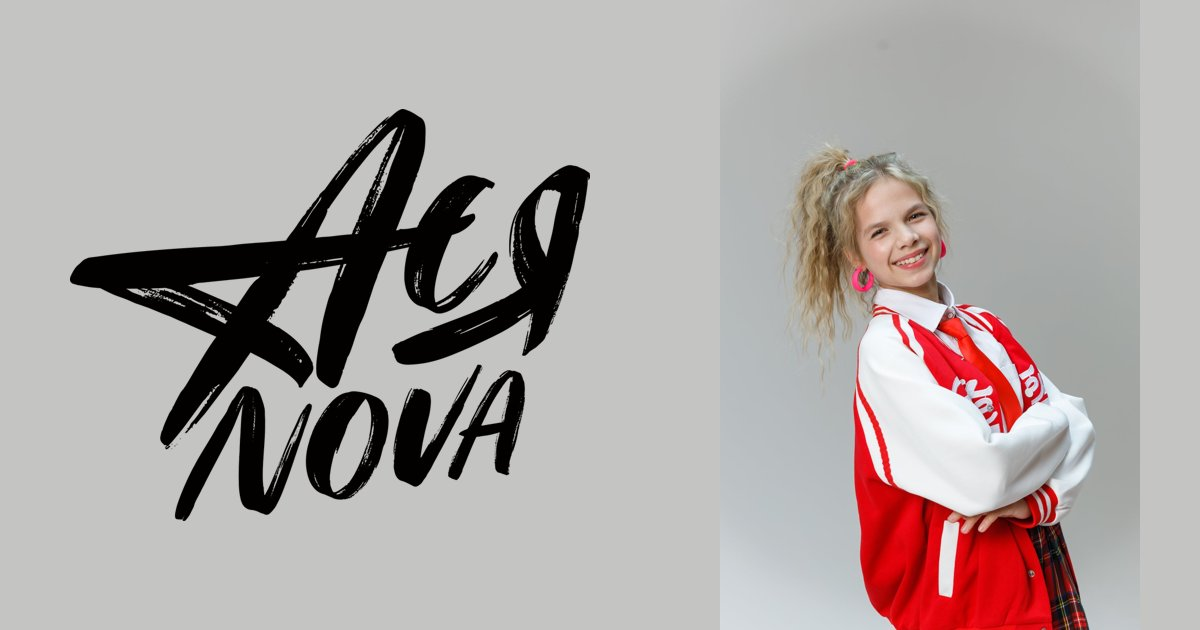
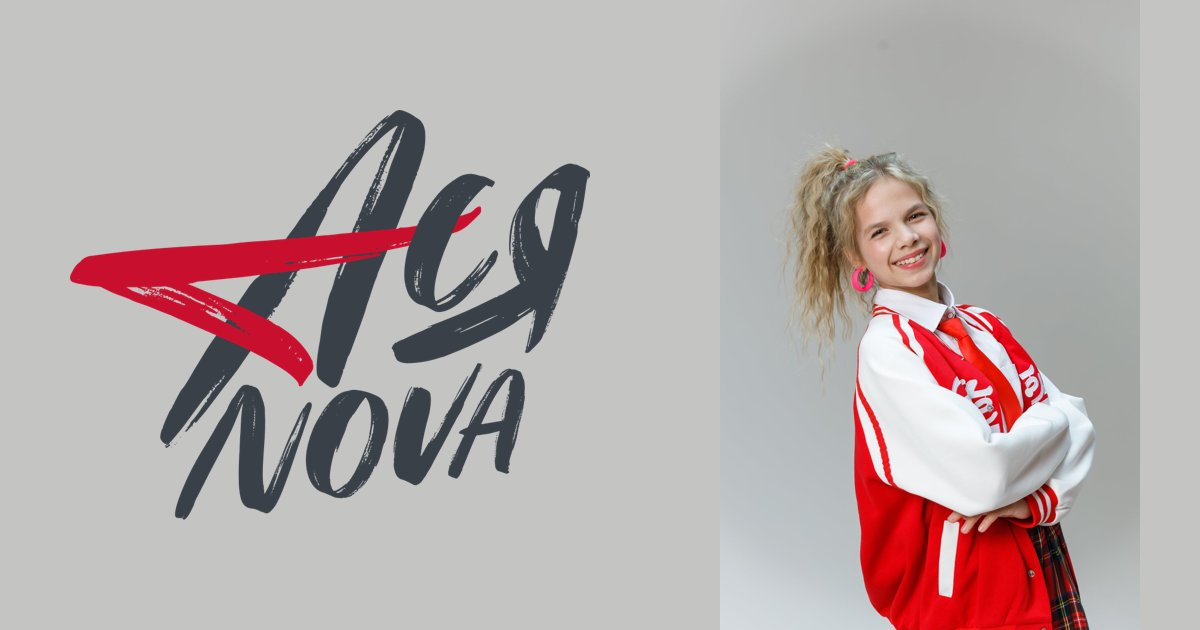
Логотип: графит с красным мазком в цвет бомбера и кнопок; новая иконка вкладки и превью ссылки
Claude-Session: https://claude.ai/code/session_01KCDvgTRNFyWnJZYckEhSR3

Changed region(s): [[0.0617, 0.181, 0.4933, 0.8444]]

diff --git a/index.html b/index.html
@@ -23,7 +23,7 @@
     <div class="link-group"><span class="link-label">Соцсети</span><a class="pl" href="https://vk.com/asya_nova_sing" target="_blank" rel="noopener" aria-label="ВКонтакте" title="ВКонтакте" style="background:#0077FF;color:#FFFFFF">VK</a><a class="pl" href="https://t.me/asya_nova_sing" target="_blank" rel="noopener" aria-label="Telegram" title="Telegram" style="background:#2AABEE;color:#121212">TG</a><a class="pl" href="https://www.tiktok.com/@asya_nova_song" target="_blank" rel="noopener" aria-label="TikTok" title="TikTok" style="background:#FFFFFF;color:#121212">TT</a><a class="pl small" href="https://max.ru/channel_asya_nova" target="_blank" rel="noopener" aria-label="MAX — «АСЯ NOVA на MAXимум!»" title="MAX — «АСЯ NOVA на MAXимум!»" style="background:#7A3CFF;color:#FFFFFF">MAX</a></div>
   </div></div>
   <div class="wrap hdr-row">
-    <a class="logo" href="/" aria-label="АСЯ NOVA — на главную"><img class="logo-b" src="/assets/img/logo_black.png" alt="АСЯ NOVA" width="66" height="52"><img class="logo-w" src="/assets/img/logo_white.png" alt="АСЯ NOVA" width="66" height="52"></a>
+    <a class="logo" href="/" aria-label="АСЯ NOVA — на главную"><img class="logo-b" src="/assets/img/logo_red_dark.png" alt="АСЯ NOVA" width="66" height="52"><img class="logo-w" src="/assets/img/logo_red_light.png" alt="АСЯ NOVA" width="66" height="52"></a>
     <nav class="site-nav no-scrollbar" aria-label="Главное меню"><a href="/#music">Музыка</a><a href="/#afisha">Афиша</a><a href="/#video">Видео</a><a href="/komiks/">Комиксы</a><a href="/merch/">Мерч</a><a href="/#about">Об Асе</a><a href="/#collab">Сотрудничество</a></nav>
     <div class="hdr-actions">
       <button class="theme-btn" type="button" data-theme-toggle aria-label="Сменить тему: светлая или тёмная" title="Светлая / тёмная тема">
@@ -38,7 +38,7 @@
 <section class="hero"><div class="wrap hero-row">
   <div class="hero-txt">
     <div style="display:inline-flex;align-self:flex-start;align-items:center;gap:10px;background:#121212;color:#fff;font-weight:700;font-size:13px;letter-spacing:.12em;text-transform:uppercase;padding:9px 16px;border-radius:999px"><span style="width:8px;height:8px;border-radius:50%;background:#FF3E9A;display:inline-block"></span>Новый релиз — «Девица-красавица»</div>
-    <h1 style="margin:0"><img class="logo-b" src="/assets/img/logo_black.png" alt="АСЯ NOVA" style="display:block;width:clamp(240px,30vw,440px);height:auto"><img class="logo-w" src="/assets/img/logo_white.png" alt="АСЯ NOVA" style="width:clamp(240px,30vw,440px);height:auto"></h1>
+    <h1 style="margin:0"><img src="/assets/img/logo_red_dark.png" alt="АСЯ NOVA" style="display:block;width:clamp(240px,30vw,440px);height:auto"></h1>
     <p style="margin:0;font-size:21px;line-height:1.5;font-weight:600;max-width:470px">Новая звезда, новые песни, новые истории.</p>
     <div style="display:flex;flex-wrap:wrap;gap:12px"><a class="btn btn-accent" href="/music/devitsa-krasavitsa/"><svg width="22" height="22" viewBox="0 0 24 24" aria-hidden="true" fill="currentColor"><path d="M7 4.5v15l13-7.5z"></path></svg>Слушать новый трек</a><a class="btn btn-line" href="#video">Смотреть видео</a></div>
   </div>

diff --git a/komiks/index.html b/komiks/index.html
@@ -23,7 +23,7 @@
     <div class="link-group"><span class="link-label">Соцсети</span><a class="pl" href="https://vk.com/asya_nova_sing" target="_blank" rel="noopener" aria-label="ВКонтакте" title="ВКонтакте" style="background:#0077FF;color:#FFFFFF">VK</a><a class="pl" href="https://t.me/asya_nova_sing" target="_blank" rel="noopener" aria-label="Telegram" title="Telegram" style="background:#2AABEE;color:#121212">TG</a><a class="pl" href="https://www.tiktok.com/@asya_nova_song" target="_blank" rel="noopener" aria-label="TikTok" title="TikTok" style="background:#FFFFFF;color:#121212">TT</a><a class="pl small" href="https://max.ru/channel_asya_nova" target="_blank" rel="noopener" aria-label="MAX — «АСЯ NOVA на MAXимум!»" title="MAX — «АСЯ NOVA на MAXимум!»" style="background:#7A3CFF;color:#FFFFFF">MAX</a></div>
   </div></div>
   <div class="wrap hdr-row">
-    <a class="logo" href="/" aria-label="АСЯ NOVA — на главную"><img class="logo-b" src="/assets/img/logo_black.png" alt="АСЯ NOVA" width="66" height="52"><img class="logo-w" src="/assets/img/logo_white.png" alt="АСЯ NOVA" width="66" height="52"></a>
+    <a class="logo" href="/" aria-label="АСЯ NOVA — на главную"><img class="logo-b" src="/assets/img/logo_red_dark.png" alt="АСЯ NOVA" width="66" height="52"><img class="logo-w" src="/assets/img/logo_red_light.png" alt="АСЯ NOVA" width="66" height="52"></a>
     <nav class="site-nav no-scrollbar" aria-label="Главное меню"><a href="/#music">Музыка</a><a href="/#afisha">Афиша</a><a href="/#video">Видео</a><a href="/komiks/" class=active>Комиксы</a><a href="/merch/">Мерч</a><a href="/#about">Об Асе</a><a href="/#collab">Сотрудничество</a></nav>
     <div class="hdr-actions">
       <button class="theme-btn" type="button" data-theme-toggle aria-label="Сменить тему: светлая или тёмная" title="Светлая / тёмная тема">

diff --git a/merch/index.html b/merch/index.html
@@ -23,7 +23,7 @@
     <div class="link-group"><span class="link-label">Соцсети</span><a class="pl" href="https://vk.com/asya_nova_sing" target="_blank" rel="noopener" aria-label="ВКонтакте" title="ВКонтакте" style="background:#0077FF;color:#FFFFFF">VK</a><a class="pl" href="https://t.me/asya_nova_sing" target="_blank" rel="noopener" aria-label="Telegram" title="Telegram" style="background:#2AABEE;color:#121212">TG</a><a class="pl" href="https://www.tiktok.com/@asya_nova_song" target="_blank" rel="noopener" aria-label="TikTok" title="TikTok" style="background:#FFFFFF;color:#121212">TT</a><a class="pl small" href="https://max.ru/channel_asya_nova" target="_blank" rel="noopener" aria-label="MAX — «АСЯ NOVA на MAXимум!»" title="MAX — «АСЯ NOVA на MAXимум!»" style="background:#7A3CFF;color:#FFFFFF">MAX</a></div>
   </div></div>
   <div class="wrap hdr-row">
-    <a class="logo" href="/" aria-label="АСЯ NOVA — на главную"><img class="logo-b" src="/assets/img/logo_black.png" alt="АСЯ NOVA" width="66" height="52"><img class="logo-w" src="/assets/img/logo_white.png" alt="АСЯ NOVA" width="66" height="52"></a>
+    <a class="logo" href="/" aria-label="АСЯ NOVA — на главную"><img class="logo-b" src="/assets/img/logo_red_dark.png" alt="АСЯ NOVA" width="66" height="52"><img class="logo-w" src="/assets/img/logo_red_light.png" alt="АСЯ NOVA" width="66" height="52"></a>
     <nav class="site-nav no-scrollbar" aria-label="Главное меню"><a href="/#music">Музыка</a><a href="/#afisha">Афиша</a><a href="/#video">Видео</a><a href="/komiks/">Комиксы</a><a href="/merch/" class=active>Мерч</a><a href="/#about">Об Асе</a><a href="/#collab">Сотрудничество</a></nav>
     <div class="hdr-actions">
       <button class="theme-btn" type="button" data-theme-toggle aria-label="Сменить тему: светлая или тёмная" title="Светлая / тёмная тема">

diff --git a/music/devitsa-krasavitsa/index.html b/music/devitsa-krasavitsa/index.html
@@ -23,7 +23,7 @@
     <div class="link-group"><span class="link-label">Соцсети</span><a class="pl" href="https://vk.com/asya_nova_sing" target="_blank" rel="noopener" aria-label="ВКонтакте" title="ВКонтакте" style="background:#0077FF;color:#FFFFFF">VK</a><a class="pl" href="https://t.me/asya_nova_sing" target="_blank" rel="noopener" aria-label="Telegram" title="Telegram" style="background:#2AABEE;color:#121212">TG</a><a class="pl" href="https://www.tiktok.com/@asya_nova_song" target="_blank" rel="noopener" aria-label="TikTok" title="TikTok" style="background:#FFFFFF;color:#121212">TT</a><a class="pl small" href="https://max.ru/channel_asya_nova" target="_blank" rel="noopener" aria-label="MAX — «АСЯ NOVA на MAXимум!»" title="MAX — «АСЯ NOVA на MAXимум!»" style="background:#7A3CFF;color:#FFFFFF">MAX</a></div>
   </div></div>
   <div class="wrap hdr-row">
-    <a class="logo" href="/" aria-label="АСЯ NOVA — на главную"><img class="logo-b" src="/assets/img/logo_black.png" alt="АСЯ NOVA" width="66" height="52"><img class="logo-w" src="/assets/img/logo_white.png" alt="АСЯ NOVA" width="66" height="52"></a>
+    <a class="logo" href="/" aria-label="АСЯ NOVA — на главную"><img class="logo-b" src="/assets/img/logo_red_dark.png" alt="АСЯ NOVA" width="66" height="52"><img class="logo-w" src="/assets/img/logo_red_light.png" alt="АСЯ NOVA" width="66" height="52"></a>
     <nav class="site-nav no-scrollbar" aria-label="Главное меню"><a href="/#music" class=active>Музыка</a><a href="/#afisha">Афиша</a><a href="/#video">Видео</a><a href="/komiks/">Комиксы</a><a href="/merch/">Мерч</a><a href="/#about">Об Асе</a><a href="/#collab">Сотрудничество</a></nav>
     <div class="hdr-actions">
       <button class="theme-btn" type="button" data-theme-toggle aria-label="Сменить тему: светлая или тёмная" title="Светлая / тёмная тема">

diff --git a/music/gorod-na-levom-beregu/index.html b/music/gorod-na-levom-beregu/index.html
@@ -23,7 +23,7 @@
     <div class="link-group"><span class="link-label">Соцсети</span><a class="pl" href="https://vk.com/asya_nova_sing" target="_blank" rel="noopener" aria-label="ВКонтакте" title="ВКонтакте" style="background:#0077FF;color:#FFFFFF">VK</a><a class="pl" href="https://t.me/asya_nova_sing" target="_blank" rel="noopener" aria-label="Telegram" title="Telegram" style="background:#2AABEE;color:#121212">TG</a><a class="pl" href="https://www.tiktok.com/@asya_nova_song" target="_blank" rel="noopener" aria-label="TikTok" title="TikTok" style="background:#FFFFFF;color:#121212">TT</a><a class="pl small" href="https://max.ru/channel_asya_nova" target="_blank" rel="noopener" aria-label="MAX — «АСЯ NOVA на MAXимум!»" title="MAX — «АСЯ NOVA на MAXимум!»" style="background:#7A3CFF;color:#FFFFFF">MAX</a></div>
   </div></div>
   <div class="wrap hdr-row">
-    <a class="logo" href="/" aria-label="АСЯ NOVA — на главную"><img class="logo-b" src="/assets/img/logo_black.png" alt="АСЯ NOVA" width="66" height="52"><img class="logo-w" src="/assets/img/logo_white.png" alt="АСЯ NOVA" width="66" height="52"></a>
+    <a class="logo" href="/" aria-label="АСЯ NOVA — на главную"><img class="logo-b" src="/assets/img/logo_red_dark.png" alt="АСЯ NOVA" width="66" height="52"><img class="logo-w" src="/assets/img/logo_red_light.png" alt="АСЯ NOVA" width="66" height="52"></a>
     <nav class="site-nav no-scrollbar" aria-label="Главное меню"><a href="/#music" class=active>Музыка</a><a href="/#afisha">Афиша</a><a href="/#video">Видео</a><a href="/komiks/">Комиксы</a><a href="/merch/">Мерч</a><a href="/#about">Об Асе</a><a href="/#collab">Сотрудничество</a></nav>
     <div class="hdr-actions">
       <button class="theme-btn" type="button" data-theme-toggle aria-label="Сменить тему: светлая или тёмная" title="Светлая / тёмная тема">

diff --git a/music/gory-sinie/index.html b/music/gory-sinie/index.html
@@ -23,7 +23,7 @@
     <div class="link-group"><span class="link-label">Соцсети</span><a class="pl" href="https://vk.com/asya_nova_sing" target="_blank" rel="noopener" aria-label="ВКонтакте" title="ВКонтакте" style="background:#0077FF;color:#FFFFFF">VK</a><a class="pl" href="https://t.me/asya_nova_sing" target="_blank" rel="noopener" aria-label="Telegram" title="Telegram" style="background:#2AABEE;color:#121212">TG</a><a class="pl" href="https://www.tiktok.com/@asya_nova_song" target="_blank" rel="noopener" aria-label="TikTok" title="TikTok" style="background:#FFFFFF;color:#121212">TT</a><a class="pl small" href="https://max.ru/channel_asya_nova" target="_blank" rel="noopener" aria-label="MAX — «АСЯ NOVA на MAXимум!»" title="MAX — «АСЯ NOVA на MAXимум!»" style="background:#7A3CFF;color:#FFFFFF">MAX</a></div>
   </div></div>
   <div class="wrap hdr-row">
-    <a class="logo" href="/" aria-label="АСЯ NOVA — на главную"><img class="logo-b" src="/assets/img/logo_black.png" alt="АСЯ NOVA" width="66" height="52"><img class="logo-w" src="/assets/img/logo_white.png" alt="АСЯ NOVA" width="66" height="52"></a>
+    <a class="logo" href="/" aria-label="АСЯ NOVA — на главную"><img class="logo-b" src="/assets/img/logo_red_dark.png" alt="АСЯ NOVA" width="66" height="52"><img class="logo-w" src="/assets/img/logo_red_light.png" alt="АСЯ NOVA" width="66" height="52"></a>
     <nav class="site-nav no-scrollbar" aria-label="Главное меню"><a href="/#music" class=active>Музыка</a><a href="/#afisha">Афиша</a><a href="/#video">Видео</a><a href="/komiks/">Комиксы</a><a href="/merch/">Мерч</a><a href="/#about">Об Асе</a><a href="/#collab">Сотрудничество</a></nav>
     <div class="hdr-actions">
       <button class="theme-btn" type="button" data-theme-toggle aria-label="Сменить тему: светлая или тёмная" title="Светлая / тёмная тема">

diff --git a/music/lyubimaya-mama/index.html b/music/lyubimaya-mama/index.html
@@ -23,7 +23,7 @@
     <div class="link-group"><span class="link-label">Соцсети</span><a class="pl" href="https://vk.com/asya_nova_sing" target="_blank" rel="noopener" aria-label="ВКонтакте" title="ВКонтакте" style="background:#0077FF;color:#FFFFFF">VK</a><a class="pl" href="https://t.me/asya_nova_sing" target="_blank" rel="noopener" aria-label="Telegram" title="Telegram" style="background:#2AABEE;color:#121212">TG</a><a class="pl" href="https://www.tiktok.com/@asya_nova_song" target="_blank" rel="noopener" aria-label="TikTok" title="TikTok" style="background:#FFFFFF;color:#121212">TT</a><a class="pl small" href="https://max.ru/channel_asya_nova" target="_blank" rel="noopener" aria-label="MAX — «АСЯ NOVA на MAXимум!»" title="MAX — «АСЯ NOVA на MAXимум!»" style="background:#7A3CFF;color:#FFFFFF">MAX</a></div>
   </div></div>
   <div class="wrap hdr-row">
-    <a class="logo" href="/" aria-label="АСЯ NOVA — на главную"><img class="logo-b" src="/assets/img/logo_black.png" alt="АСЯ NOVA" width="66" height="52"><img class="logo-w" src="/assets/img/logo_white.png" alt="АСЯ NOVA" width="66" height="52"></a>
+    <a class="logo" href="/" aria-label="АСЯ NOVA — на главную"><img class="logo-b" src="/assets/img/logo_red_dark.png" alt="АСЯ NOVA" width="66" height="52"><img class="logo-w" src="/assets/img/logo_red_light.png" alt="АСЯ NOVA" width="66" height="52"></a>
     <nav class="site-nav no-scrollbar" aria-label="Главное меню"><a href="/#music" class=active>Музыка</a><a href="/#afisha">Афиша</a><a href="/#video">Видео</a><a href="/komiks/">Комиксы</a><a href="/merch/">Мерч</a><a href="/#about">Об Асе</a><a href="/#collab">Сотрудничество</a></nav>
     <div class="hdr-actions">
       <button class="theme-btn" type="button" data-theme-toggle aria-label="Сменить тему: светлая или тёмная" title="Светлая / тёмная тема">

diff --git a/music/novogodniy-perezvon/index.html b/music/novogodniy-perezvon/index.html
@@ -23,7 +23,7 @@
     <div class="link-group"><span class="link-label">Соцсети</span><a class="pl" href="https://vk.com/asya_nova_sing" target="_blank" rel="noopener" aria-label="ВКонтакте" title="ВКонтакте" style="background:#0077FF;color:#FFFFFF">VK</a><a class="pl" href="https://t.me/asya_nova_sing" target="_blank" rel="noopener" aria-label="Telegram" title="Telegram" style="background:#2AABEE;color:#121212">TG</a><a class="pl" href="https://www.tiktok.com/@asya_nova_song" target="_blank" rel="noopener" aria-label="TikTok" title="TikTok" style="background:#FFFFFF;color:#121212">TT</a><a class="pl small" href="https://max.ru/channel_asya_nova" target="_blank" rel="noopener" aria-label="MAX — «АСЯ NOVA на MAXимум!»" title="MAX — «АСЯ NOVA на MAXимум!»" style="background:#7A3CFF;color:#FFFFFF">MAX</a></div>
   </div></div>
   <div class="wrap hdr-row">
-    <a class="logo" href="/" aria-label="АСЯ NOVA — на главную"><img class="logo-b" src="/assets/img/logo_black.png" alt="АСЯ NOVA" width="66" height="52"><img class="logo-w" src="/assets/img/logo_white.png" alt="АСЯ NOVA" width="66" height="52"></a>
+    <a class="logo" href="/" aria-label="АСЯ NOVA — на главную"><img class="logo-b" src="/assets/img/logo_red_dark.png" alt="АСЯ NOVA" width="66" height="52"><img class="logo-w" src="/assets/img/logo_red_light.png" alt="АСЯ NOVA" width="66" height="52"></a>
     <nav class="site-nav no-scrollbar" aria-label="Главное меню"><a href="/#music" class=active>Музыка</a><a href="/#afisha">Афиша</a><a href="/#video">Видео</a><a href="/komiks/">Комиксы</a><a href="/merch/">Мерч</a><a href="/#about">Об Асе</a><a href="/#collab">Сотрудничество</a></nav>
     <div class="hdr-actions">
       <button class="theme-btn" type="button" data-theme-toggle aria-label="Сменить тему: светлая или тёмная" title="Светлая / тёмная тема">

diff --git a/music/starye-igrushki-u-kamina/index.html b/music/starye-igrushki-u-kamina/index.html
@@ -23,7 +23,7 @@
     <div class="link-group"><span class="link-label">Соцсети</span><a class="pl" href="https://vk.com/asya_nova_sing" target="_blank" rel="noopener" aria-label="ВКонтакте" title="ВКонтакте" style="background:#0077FF;color:#FFFFFF">VK</a><a class="pl" href="https://t.me/asya_nova_sing" target="_blank" rel="noopener" aria-label="Telegram" title="Telegram" style="background:#2AABEE;color:#121212">TG</a><a class="pl" href="https://www.tiktok.com/@asya_nova_song" target="_blank" rel="noopener" aria-label="TikTok" title="TikTok" style="background:#FFFFFF;color:#121212">TT</a><a class="pl small" href="https://max.ru/channel_asya_nova" target="_blank" rel="noopener" aria-label="MAX — «АСЯ NOVA на MAXимум!»" title="MAX — «АСЯ NOVA на MAXимум!»" style="background:#7A3CFF;color:#FFFFFF">MAX</a></div>
   </div></div>
   <div class="wrap hdr-row">
-    <a class="logo" href="/" aria-label="АСЯ NOVA — на главную"><img class="logo-b" src="/assets/img/logo_black.png" alt="АСЯ NOVA" width="66" height="52"><img class="logo-w" src="/assets/img/logo_white.png" alt="АСЯ NOVA" width="66" height="52"></a>
+    <a class="logo" href="/" aria-label="АСЯ NOVA — на главную"><img class="logo-b" src="/assets/img/logo_red_dark.png" alt="АСЯ NOVA" width="66" height="52"><img class="logo-w" src="/assets/img/logo_red_light.png" alt="АСЯ NOVA" width="66" height="52"></a>
     <nav class="site-nav no-scrollbar" aria-label="Главное меню"><a href="/#music" class=active>Музыка</a><a href="/#afisha">Афиша</a><a href="/#video">Видео</a><a href="/komiks/">Комиксы</a><a href="/merch/">Мерч</a><a href="/#about">Об Асе</a><a href="/#collab">Сотрудничество</a></nav>
     <div class="hdr-actions">
       <button class="theme-btn" type="button" data-theme-toggle aria-label="Сменить тему: светлая или тёмная" title="Светлая / тёмная тема">

diff --git a/music/takoe-kino/index.html b/music/takoe-kino/index.html
@@ -23,7 +23,7 @@
     <div class="link-group"><span class="link-label">Соцсети</span><a class="pl" href="https://vk.com/asya_nova_sing" target="_blank" rel="noopener" aria-label="ВКонтакте" title="ВКонтакте" style="background:#0077FF;color:#FFFFFF">VK</a><a class="pl" href="https://t.me/asya_nova_sing" target="_blank" rel="noopener" aria-label="Telegram" title="Telegram" style="background:#2AABEE;color:#121212">TG</a><a class="pl" href="https://www.tiktok.com/@asya_nova_song" target="_blank" rel="noopener" aria-label="TikTok" title="TikTok" style="background:#FFFFFF;color:#121212">TT</a><a class="pl small" href="https://max.ru/channel_asya_nova" target="_blank" rel="noopener" aria-label="MAX — «АСЯ NOVA на MAXимум!»" title="MAX — «АСЯ NOVA на MAXимум!»" style="background:#7A3CFF;color:#FFFFFF">MAX</a></div>
   </div></div>
   <div class="wrap hdr-row">
-    <a class="logo" href="/" aria-label="АСЯ NOVA — на главную"><img class="logo-b" src="/assets/img/logo_black.png" alt="АСЯ NOVA" width="66" height="52"><img class="logo-w" src="/assets/img/logo_white.png" alt="АСЯ NOVA" width="66" height="52"></a>
+    <a class="logo" href="/" aria-label="АСЯ NOVA — на главную"><img class="logo-b" src="/assets/img/logo_red_dark.png" alt="АСЯ NOVA" width="66" height="52"><img class="logo-w" src="/assets/img/logo_red_light.png" alt="АСЯ NOVA" width="66" height="52"></a>
     <nav class="site-nav no-scrollbar" aria-label="Главное меню"><a href="/#music" class=active>Музыка</a><a href="/#afisha">Афиша</a><a href="/#video">Видео</a><a href="/komiks/">Комиксы</a><a href="/merch/">Мерч</a><a href="/#about">Об Асе</a><a href="/#collab">Сотрудничество</a></nav>
     <div class="hdr-actions">
       <button class="theme-btn" type="button" data-theme-toggle aria-label="Сменить тему: светлая или тёмная" title="Светлая / тёмная тема">

diff --git a/404.html b/404.html
@@ -23,7 +23,7 @@
     <div class="link-group"><span class="link-label">Соцсети</span><a class="pl" href="https://vk.com/asya_nova_sing" target="_blank" rel="noopener" aria-label="ВКонтакте" title="ВКонтакте" style="background:#0077FF;color:#FFFFFF">VK</a><a class="pl" href="https://t.me/asya_nova_sing" target="_blank" rel="noopener" aria-label="Telegram" title="Telegram" style="background:#2AABEE;color:#121212">TG</a><a class="pl" href="https://www.tiktok.com/@asya_nova_song" target="_blank" rel="noopener" aria-label="TikTok" title="TikTok" style="background:#FFFFFF;color:#121212">TT</a><a class="pl small" href="https://max.ru/channel_asya_nova" target="_blank" rel="noopener" aria-label="MAX — «АСЯ NOVA на MAXимум!»" title="MAX — «АСЯ NOVA на MAXимум!»" style="background:#7A3CFF;color:#FFFFFF">MAX</a></div>
   </div></div>
   <div class="wrap hdr-row">
-    <a class="logo" href="/" aria-label="АСЯ NOVA — на главную"><img class="logo-b" src="/assets/img/logo_black.png" alt="АСЯ NOVA" width="66" height="52"><img class="logo-w" src="/assets/img/logo_white.png" alt="АСЯ NOVA" width="66" height="52"></a>
+    <a class="logo" href="/" aria-label="АСЯ NOVA — на главную"><img class="logo-b" src="/assets/img/logo_red_dark.png" alt="АСЯ NOVA" width="66" height="52"><img class="logo-w" src="/assets/img/logo_red_light.png" alt="АСЯ NOVA" width="66" height="52"></a>
     <nav class="site-nav no-scrollbar" aria-label="Главное меню"><a href="/#music">Музыка</a><a href="/#afisha">Афиша</a><a href="/#video">Видео</a><a href="/komiks/">Комиксы</a><a href="/merch/">Мерч</a><a href="/#about">Об Асе</a><a href="/#collab">Сотрудничество</a></nav>
     <div class="hdr-actions">
       <button class="theme-btn" type="button" data-theme-toggle aria-label="Сменить тему: светлая или тёмная" title="Светлая / тёмная тема">
